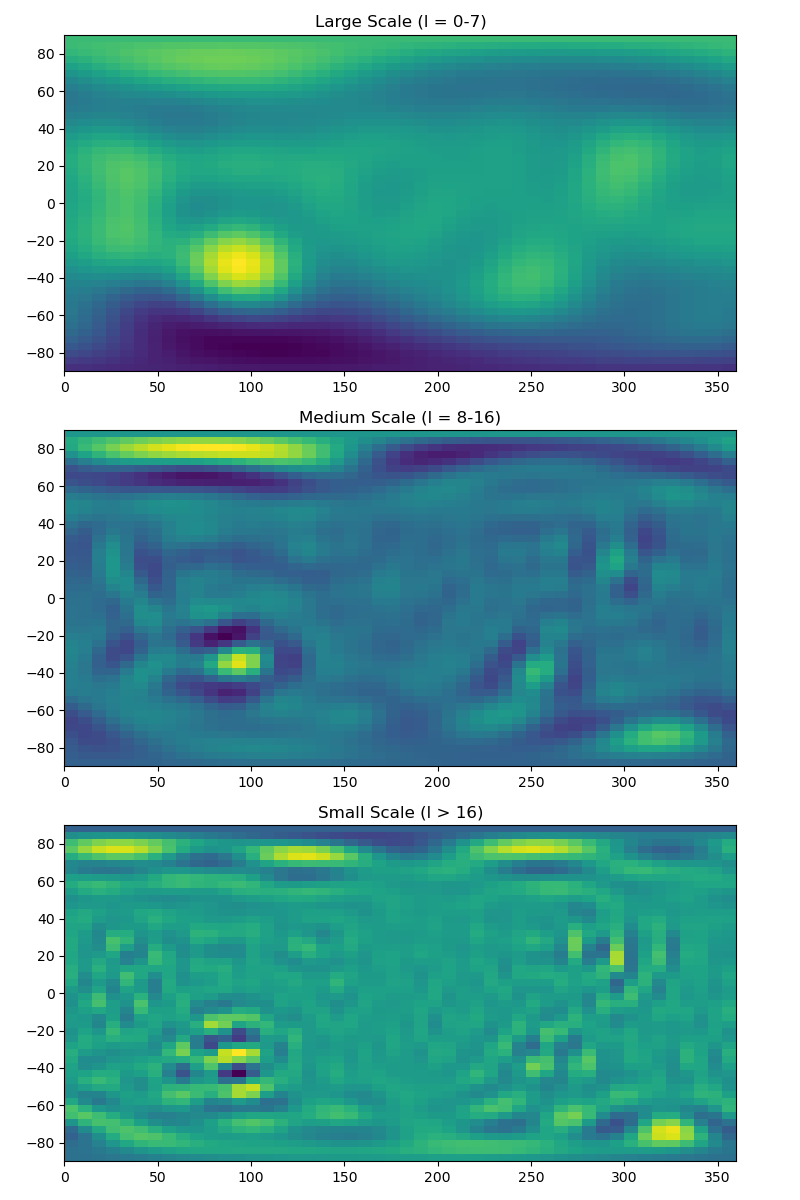
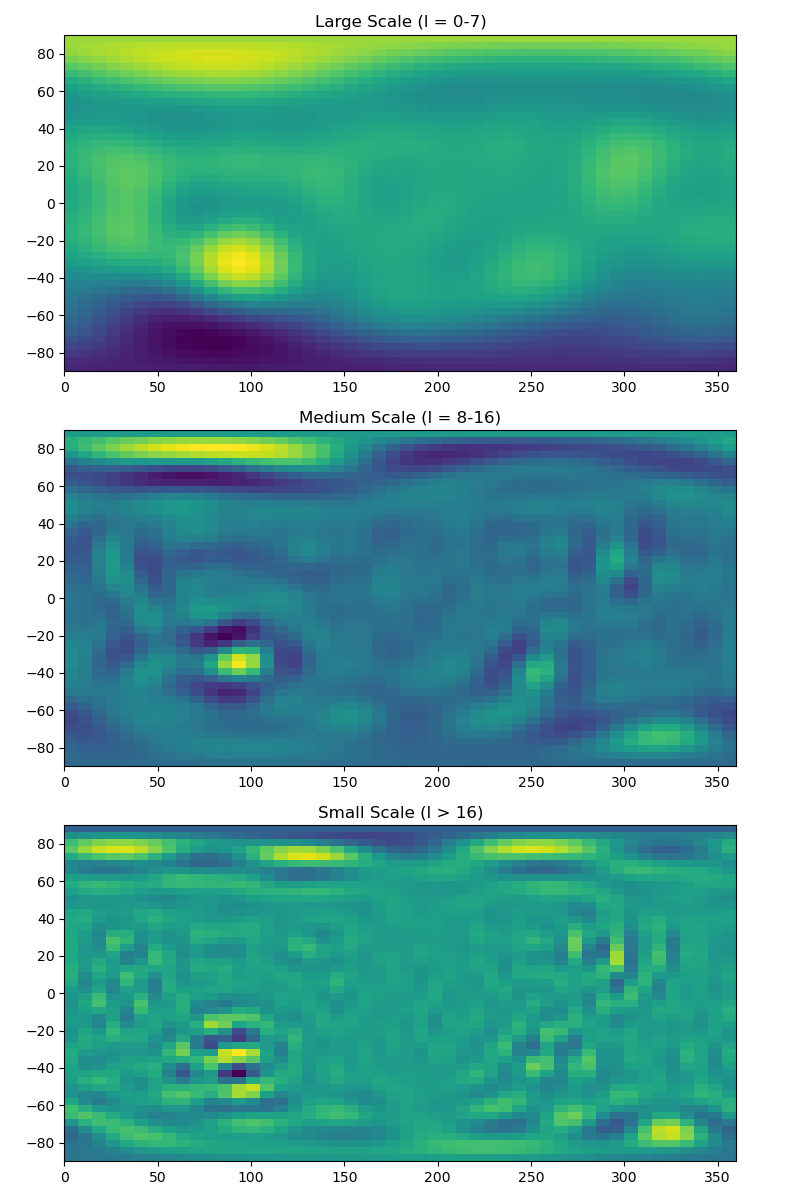
updated the first date for Jan 1, 2011 and reprinted the images to correspond to the days

Changed region(s): [[0.0625, 0.0308, 0.9375, 0.1233], [0.3438, 0.2158, 0.5938, 0.3083]]

diff --git a/pysh_ens_variance.py b/pysh_ens_variance.py
@@ -9,7 +9,7 @@ import matplotlib.pyplot as plt
 # -------- TASK 1 --------
 
 # Load the NetCDF file containing geopotential data
-f = nc.Dataset('/fs/ess/PAS2856/SPEEDY_ensemble_data/reference_ens/201103130000.nc', 'r')
+f = nc.Dataset('/fs/ess/PAS2856/SPEEDY_ensemble_data/reference_ens/201101010000.nc', 'r')
 
 #create variable geopotential based on ncdump and subset the array to have only lat and lon
 geopot_original = f.variables['phi'][0, 0, 0, :, :]
@@ -127,11 +127,11 @@ axes[2].set(xlabel='Longitude', ylabel='Latitude', title='l > 16',
 #Format the figure to fit each plot within it and eliminate excess white space
 plt.tight_layout()
 #Save the figure as a PNG
-#plt.savefig('geopotential_scales.png')
+plt.savefig('geopotential_scales.png')
 
 #Sum the three topographic grids
 topo_sum = topo_filtered1 + topo_filtered2 + topo_filtered3
-#print(topo_sum.shape)
+print(topo_sum.shape)
 
 #Plot the sum
 fig, ax = plt.subplots(figsize=(8, 6))
@@ -143,7 +143,7 @@ ax.set(xlabel='Longitude', ylabel='Latitude', title='Sum of all scales',
 #Adjust layout
 plt.tight_layout()
 #Save the result
-#plt.savefig('sum_of_all_scales.png')
+plt.savefig('sum_of_all_scales.png')
 
 # -------- TASK 2 --------
 
@@ -218,3 +218,6 @@ axes[2].set_title('Small Scale (l > 16)')
 plt.tight_layout()
 plt.savefig('three_scale_decomposition_test.png')
 #Task 2.b, yes the three arrays (three_scale_decomposition_test.png) match the output from  task 1 g (geopotential_scales.png). 
+
+#Load March 1 2011 geopotential arrays: 
+f_march = nc.Dataset('/fs/ess/PAS2856/SPEEDY_ensemble_data/reference_ens/201103010000.nc', 'r')
